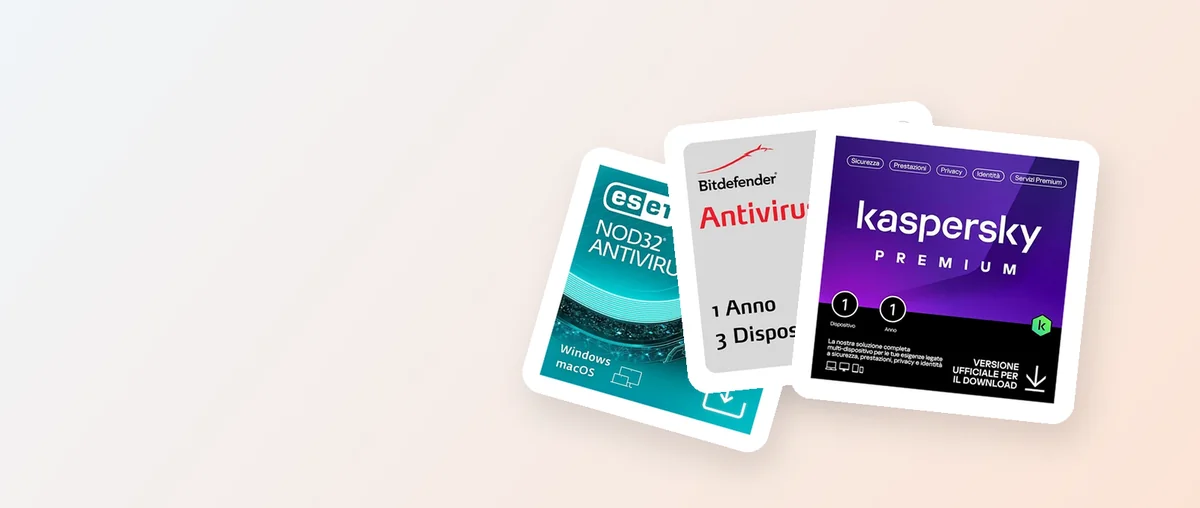
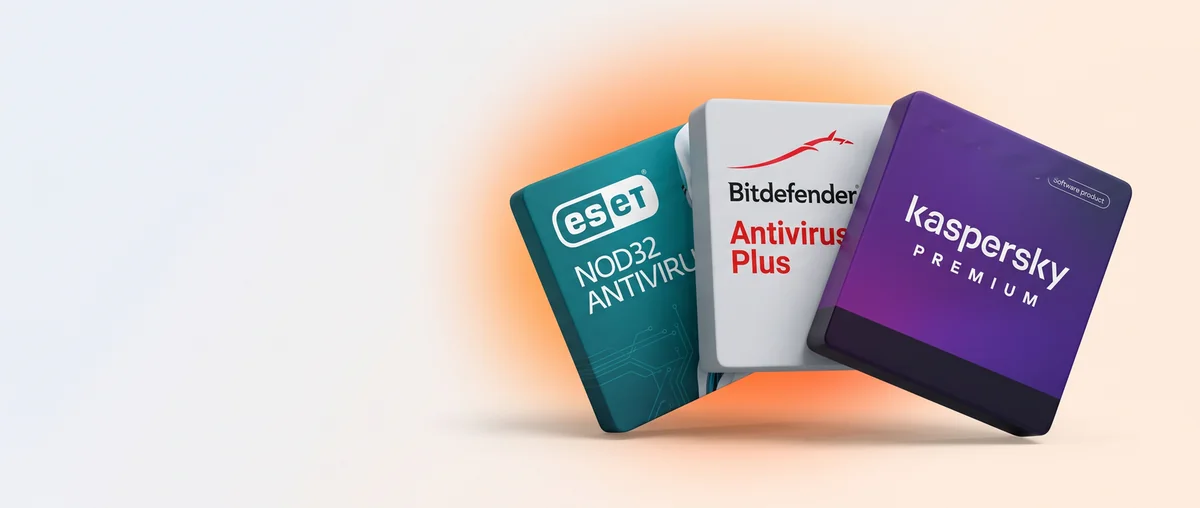
Sostituisce il collage hero con la versione generata da Gemini
Sostituisce il collage compositato da cover reali (commit precedente)
con un'immagine generata da Gemini su prompt dedicato (stessa
composizione: 3 box antivirus a ventaglio, ESET/Bitdefender/Kaspersky,
stessa palette e safe-zone testo a sinistra), su richiesta esplicita
dell'utente che ha gia' predisposto un disclaimer per l'uso di
loghi/marchi nell'immagine generata.

Fix applicato prima dell'integrazione: due badge sul box Kaspersky
avevano testo generato illeggibile/storpiato ("Smmersecurity",
"Extraaslenst privacy" invece di testo reale). Rimossi con inpainting
OpenCV (cv2.inpaint, TELEA) mascherando solo i pixel bianchi del badge
ricostruiti dentro la sagoma del box (ottenuta chiudendo
morfologicamente la regione a saturazione alta viola, cosi' la
maschera non tocca mai lo sfondo pesca circostante). Il terzo badge
("Software product") era gia' leggibile ed e' stato lasciato intatto.

Stessa pipeline della versione precedente: resize ai 3 breakpoint
(800/1200/1600), export WebP+AVIF, nessuna modifica al markup
<picture>, solo contenuto immagini e ?v= rigenerati via
bump-asset-version.py. Verificato in locale su desktop e mobile
(375px).

diff --git a/de/index.html b/de/index.html
@@ -313,9 +313,9 @@
     <main id="main" class="home-page">
         <section class="home-hero home-hero--consumer" aria-labelledby="home-hero-title">
             <picture class="home-hero__bg">
-                <source type="image/avif" srcset="../asset/media/home-hero-bg-800.avif?v=cab4b77d80 800w, ../asset/media/home-hero-bg-1200.avif?v=caed944219 1200w, ../asset/media/home-hero-bg-1600.avif?v=9395efd7a1 1600w" sizes="100vw">
-                <source type="image/webp" srcset="../asset/media/home-hero-bg-800.webp?v=f6a455a5c1 800w, ../asset/media/home-hero-bg-1200.webp?v=ca91415ecd 1200w, ../asset/media/home-hero-bg-1600.webp?v=94447a30fe 1600w" sizes="100vw">
-                <img src="../asset/media/home-hero-bg-1600.webp?v=94447a30fe" width="1600" height="678" alt="" fetchpriority="high" decoding="async">
+                <source type="image/avif" srcset="../asset/media/home-hero-bg-800.avif?v=a02dded1b4 800w, ../asset/media/home-hero-bg-1200.avif?v=3ed6fa84ce 1200w, ../asset/media/home-hero-bg-1600.avif?v=d4b5046b44 1600w" sizes="100vw">
+                <source type="image/webp" srcset="../asset/media/home-hero-bg-800.webp?v=d9309a3865 800w, ../asset/media/home-hero-bg-1200.webp?v=dee87684bb 1200w, ../asset/media/home-hero-bg-1600.webp?v=e527849c94 1600w" sizes="100vw">
+                <img src="../asset/media/home-hero-bg-1600.webp?v=e527849c94" width="1600" height="678" alt="" fetchpriority="high" decoding="async">
             </picture>
             <div class="home-hero-inner">
                 <div class="home-hero-content">

diff --git a/en/index.html b/en/index.html
@@ -314,9 +314,9 @@
     <main id="main" class="home-page">
         <section class="home-hero home-hero--consumer" aria-labelledby="home-hero-title">
             <picture class="home-hero__bg">
-                <source type="image/avif" srcset="../asset/media/home-hero-bg-800.avif?v=cab4b77d80 800w, ../asset/media/home-hero-bg-1200.avif?v=caed944219 1200w, ../asset/media/home-hero-bg-1600.avif?v=9395efd7a1 1600w" sizes="100vw">
-                <source type="image/webp" srcset="../asset/media/home-hero-bg-800.webp?v=f6a455a5c1 800w, ../asset/media/home-hero-bg-1200.webp?v=ca91415ecd 1200w, ../asset/media/home-hero-bg-1600.webp?v=94447a30fe 1600w" sizes="100vw">
-                <img src="../asset/media/home-hero-bg-1600.webp?v=94447a30fe" width="1600" height="678" alt="" fetchpriority="high" decoding="async">
+                <source type="image/avif" srcset="../asset/media/home-hero-bg-800.avif?v=a02dded1b4 800w, ../asset/media/home-hero-bg-1200.avif?v=3ed6fa84ce 1200w, ../asset/media/home-hero-bg-1600.avif?v=d4b5046b44 1600w" sizes="100vw">
+                <source type="image/webp" srcset="../asset/media/home-hero-bg-800.webp?v=d9309a3865 800w, ../asset/media/home-hero-bg-1200.webp?v=dee87684bb 1200w, ../asset/media/home-hero-bg-1600.webp?v=e527849c94 1600w" sizes="100vw">
+                <img src="../asset/media/home-hero-bg-1600.webp?v=e527849c94" width="1600" height="678" alt="" fetchpriority="high" decoding="async">
             </picture>
             <div class="home-hero-inner">
                 <div class="home-hero-content">

diff --git a/es/index.html b/es/index.html
@@ -314,9 +314,9 @@
     <main id="main" class="home-page">
         <section class="home-hero home-hero--consumer" aria-labelledby="home-hero-title">
             <picture class="home-hero__bg">
-                <source type="image/avif" srcset="../asset/media/home-hero-bg-800.avif?v=cab4b77d80 800w, ../asset/media/home-hero-bg-1200.avif?v=caed944219 1200w, ../asset/media/home-hero-bg-1600.avif?v=9395efd7a1 1600w" sizes="100vw">
-                <source type="image/webp" srcset="../asset/media/home-hero-bg-800.webp?v=f6a455a5c1 800w, ../asset/media/home-hero-bg-1200.webp?v=ca91415ecd 1200w, ../asset/media/home-hero-bg-1600.webp?v=94447a30fe 1600w" sizes="100vw">
-                <img src="../asset/media/home-hero-bg-1600.webp?v=94447a30fe" width="1600" height="678" alt="" fetchpriority="high" decoding="async">
+                <source type="image/avif" srcset="../asset/media/home-hero-bg-800.avif?v=a02dded1b4 800w, ../asset/media/home-hero-bg-1200.avif?v=3ed6fa84ce 1200w, ../asset/media/home-hero-bg-1600.avif?v=d4b5046b44 1600w" sizes="100vw">
+                <source type="image/webp" srcset="../asset/media/home-hero-bg-800.webp?v=d9309a3865 800w, ../asset/media/home-hero-bg-1200.webp?v=dee87684bb 1200w, ../asset/media/home-hero-bg-1600.webp?v=e527849c94 1600w" sizes="100vw">
+                <img src="../asset/media/home-hero-bg-1600.webp?v=e527849c94" width="1600" height="678" alt="" fetchpriority="high" decoding="async">
             </picture>
             <div class="home-hero-inner">
                 <div class="home-hero-content">

diff --git a/fr/index.html b/fr/index.html
@@ -313,9 +313,9 @@
     <main id="main" class="home-page">
         <section class="home-hero home-hero--consumer" aria-labelledby="home-hero-title">
             <picture class="home-hero__bg">
-                <source type="image/avif" srcset="../asset/media/home-hero-bg-800.avif?v=cab4b77d80 800w, ../asset/media/home-hero-bg-1200.avif?v=caed944219 1200w, ../asset/media/home-hero-bg-1600.avif?v=9395efd7a1 1600w" sizes="100vw">
-                <source type="image/webp" srcset="../asset/media/home-hero-bg-800.webp?v=f6a455a5c1 800w, ../asset/media/home-hero-bg-1200.webp?v=ca91415ecd 1200w, ../asset/media/home-hero-bg-1600.webp?v=94447a30fe 1600w" sizes="100vw">
-                <img src="../asset/media/home-hero-bg-1600.webp?v=94447a30fe" width="1600" height="678" alt="" fetchpriority="high" decoding="async">
+                <source type="image/avif" srcset="../asset/media/home-hero-bg-800.avif?v=a02dded1b4 800w, ../asset/media/home-hero-bg-1200.avif?v=3ed6fa84ce 1200w, ../asset/media/home-hero-bg-1600.avif?v=d4b5046b44 1600w" sizes="100vw">
+                <source type="image/webp" srcset="../asset/media/home-hero-bg-800.webp?v=d9309a3865 800w, ../asset/media/home-hero-bg-1200.webp?v=dee87684bb 1200w, ../asset/media/home-hero-bg-1600.webp?v=e527849c94 1600w" sizes="100vw">
+                <img src="../asset/media/home-hero-bg-1600.webp?v=e527849c94" width="1600" height="678" alt="" fetchpriority="high" decoding="async">
             </picture>
             <div class="home-hero-inner">
                 <div class="home-hero-content">

diff --git a/it/index.html b/it/index.html
@@ -314,9 +314,9 @@
     <main id="main" class="home-page">
         <section class="home-hero home-hero--consumer" aria-labelledby="home-hero-title">
             <picture class="home-hero__bg">
-                <source type="image/avif" srcset="../asset/media/home-hero-bg-800.avif?v=cab4b77d80 800w, ../asset/media/home-hero-bg-1200.avif?v=caed944219 1200w, ../asset/media/home-hero-bg-1600.avif?v=9395efd7a1 1600w" sizes="100vw">
-                <source type="image/webp" srcset="../asset/media/home-hero-bg-800.webp?v=f6a455a5c1 800w, ../asset/media/home-hero-bg-1200.webp?v=ca91415ecd 1200w, ../asset/media/home-hero-bg-1600.webp?v=94447a30fe 1600w" sizes="100vw">
-                <img src="../asset/media/home-hero-bg-1600.webp?v=94447a30fe" width="1600" height="678" alt="" fetchpriority="high" decoding="async">
+                <source type="image/avif" srcset="../asset/media/home-hero-bg-800.avif?v=a02dded1b4 800w, ../asset/media/home-hero-bg-1200.avif?v=3ed6fa84ce 1200w, ../asset/media/home-hero-bg-1600.avif?v=d4b5046b44 1600w" sizes="100vw">
+                <source type="image/webp" srcset="../asset/media/home-hero-bg-800.webp?v=d9309a3865 800w, ../asset/media/home-hero-bg-1200.webp?v=dee87684bb 1200w, ../asset/media/home-hero-bg-1600.webp?v=e527849c94 1600w" sizes="100vw">
+                <img src="../asset/media/home-hero-bg-1600.webp?v=e527849c94" width="1600" height="678" alt="" fetchpriority="high" decoding="async">
             </picture>
             <div class="home-hero-inner">
                 <div class="home-hero-content">

diff --git a/nl/index.html b/nl/index.html
@@ -314,9 +314,9 @@
     <main id="main" class="home-page">
         <section class="home-hero home-hero--consumer" aria-labelledby="home-hero-title">
             <picture class="home-hero__bg">
-                <source type="image/avif" srcset="../asset/media/home-hero-bg-800.avif?v=cab4b77d80 800w, ../asset/media/home-hero-bg-1200.avif?v=caed944219 1200w, ../asset/media/home-hero-bg-1600.avif?v=9395efd7a1 1600w" sizes="100vw">
-                <source type="image/webp" srcset="../asset/media/home-hero-bg-800.webp?v=f6a455a5c1 800w, ../asset/media/home-hero-bg-1200.webp?v=ca91415ecd 1200w, ../asset/media/home-hero-bg-1600.webp?v=94447a30fe 1600w" sizes="100vw">
-                <img src="../asset/media/home-hero-bg-1600.webp?v=94447a30fe" width="1600" height="678" alt="" fetchpriority="high" decoding="async">
+                <source type="image/avif" srcset="../asset/media/home-hero-bg-800.avif?v=a02dded1b4 800w, ../asset/media/home-hero-bg-1200.avif?v=3ed6fa84ce 1200w, ../asset/media/home-hero-bg-1600.avif?v=d4b5046b44 1600w" sizes="100vw">
+                <source type="image/webp" srcset="../asset/media/home-hero-bg-800.webp?v=d9309a3865 800w, ../asset/media/home-hero-bg-1200.webp?v=dee87684bb 1200w, ../asset/media/home-hero-bg-1600.webp?v=e527849c94 1600w" sizes="100vw">
+                <img src="../asset/media/home-hero-bg-1600.webp?v=e527849c94" width="1600" height="678" alt="" fetchpriority="high" decoding="async">
             </picture>
             <div class="home-hero-inner">
                 <div class="home-hero-content">

diff --git a/pt/index.html b/pt/index.html
@@ -312,9 +312,9 @@
     <main id="main" class="home-page">
         <section class="home-hero home-hero--consumer" aria-labelledby="home-hero-title">
             <picture class="home-hero__bg">
-                <source type="image/avif" srcset="../asset/media/home-hero-bg-800.avif?v=cab4b77d80 800w, ../asset/media/home-hero-bg-1200.avif?v=caed944219 1200w, ../asset/media/home-hero-bg-1600.avif?v=9395efd7a1 1600w" sizes="100vw">
-                <source type="image/webp" srcset="../asset/media/home-hero-bg-800.webp?v=f6a455a5c1 800w, ../asset/media/home-hero-bg-1200.webp?v=ca91415ecd 1200w, ../asset/media/home-hero-bg-1600.webp?v=94447a30fe 1600w" sizes="100vw">
-                <img src="../asset/media/home-hero-bg-1600.webp?v=94447a30fe" width="1600" height="678" alt="" fetchpriority="high" decoding="async">
+                <source type="image/avif" srcset="../asset/media/home-hero-bg-800.avif?v=a02dded1b4 800w, ../asset/media/home-hero-bg-1200.avif?v=3ed6fa84ce 1200w, ../asset/media/home-hero-bg-1600.avif?v=d4b5046b44 1600w" sizes="100vw">
+                <source type="image/webp" srcset="../asset/media/home-hero-bg-800.webp?v=d9309a3865 800w, ../asset/media/home-hero-bg-1200.webp?v=dee87684bb 1200w, ../asset/media/home-hero-bg-1600.webp?v=e527849c94 1600w" sizes="100vw">
+                <img src="../asset/media/home-hero-bg-1600.webp?v=e527849c94" width="1600" height="678" alt="" fetchpriority="high" decoding="async">
             </picture>
             <div class="home-hero-inner">
                 <div class="home-hero-content">
